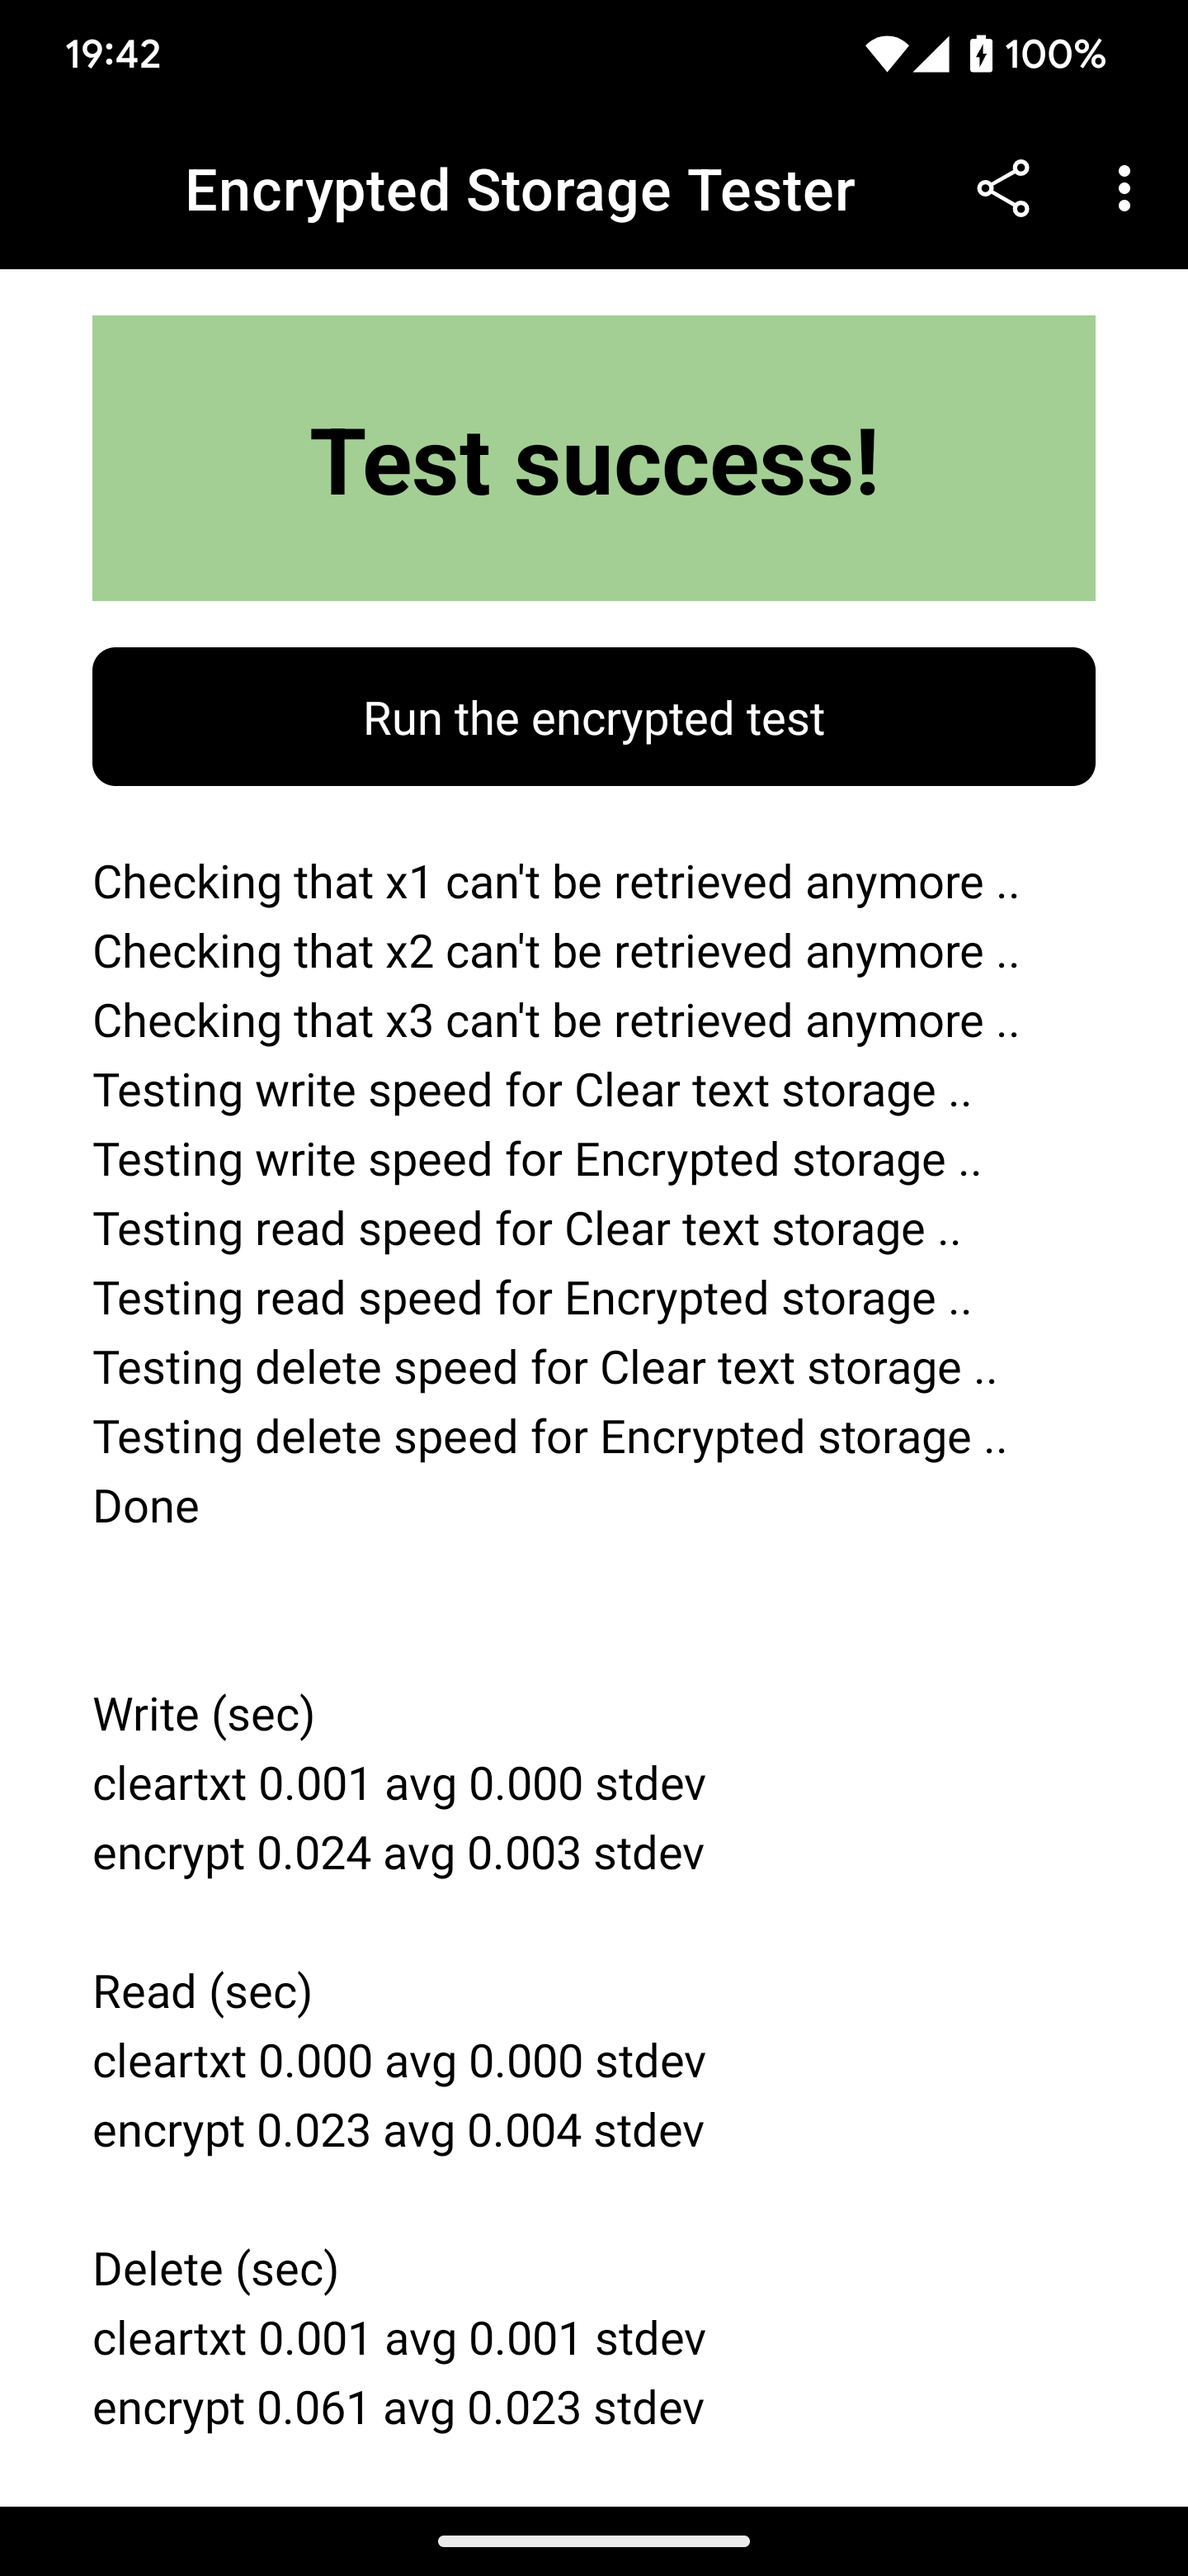
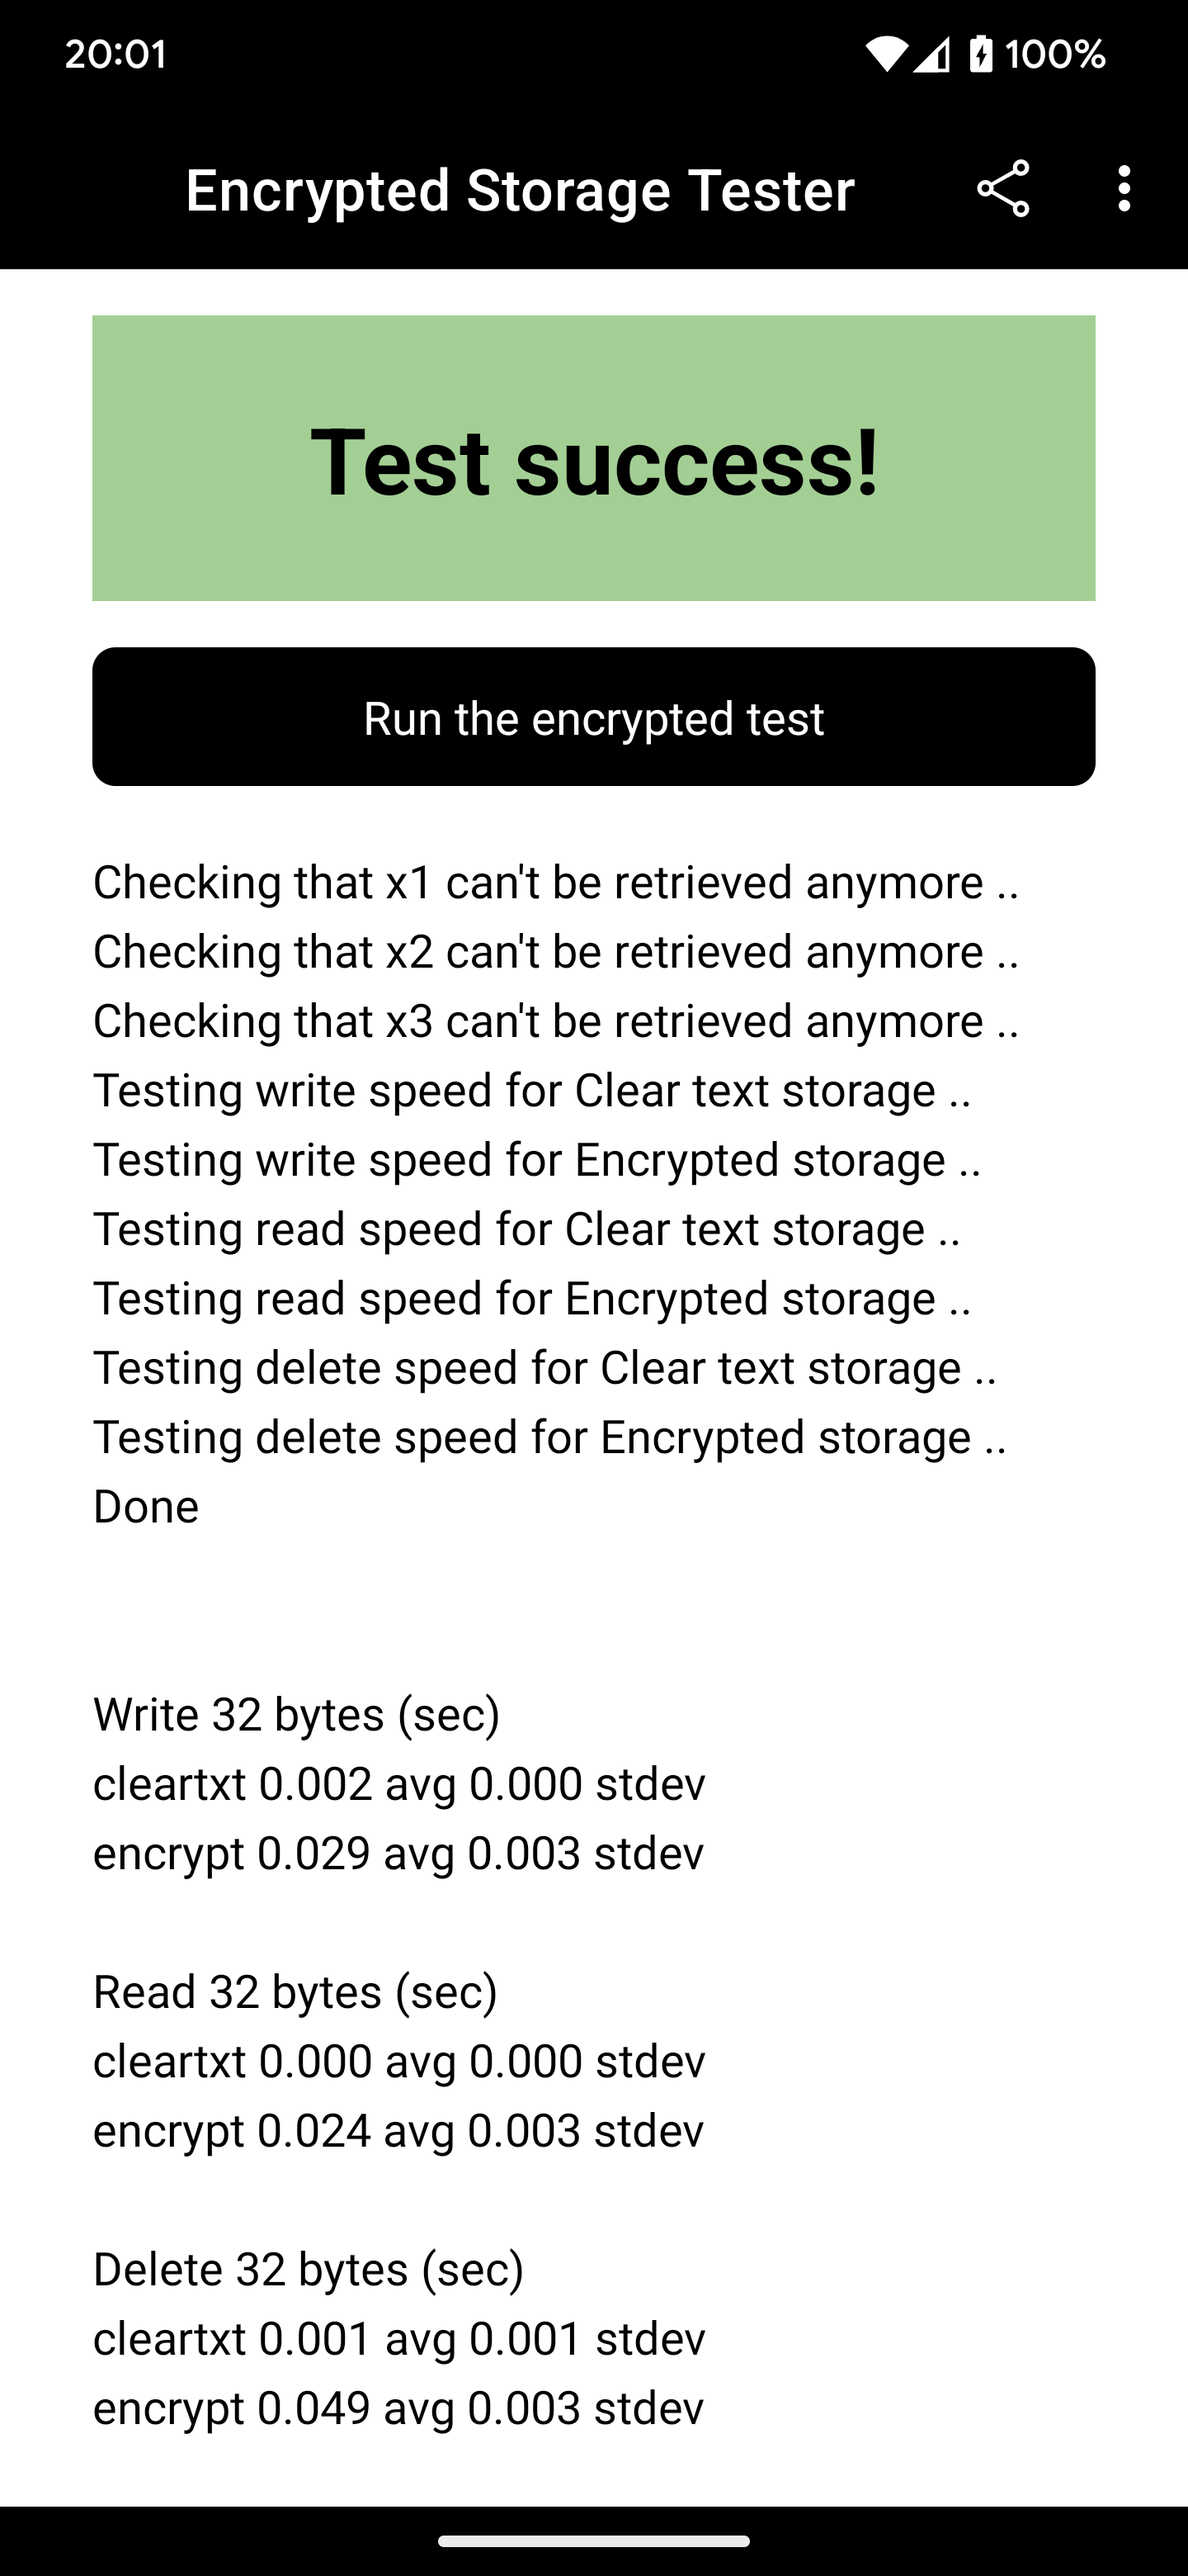
Log out the data size

diff --git a/app-domain/src/main/java/mobi/lab/hardwarekeybasedencryptedstoragetester/domain/usecases/storage/StorageTestUseCase.kt b/app-domain/src/main/java/mobi/lab/hardwarekeybasedencryptedstoragetester/domain/usecases/storage/StorageTestUseCase.kt
@@ -39,24 +39,24 @@ class StorageTestUseCase @Inject constructor(
     private fun measureUsageSpeed(): StorageSpeedMeasurementResults {
         val data = createRandomBytes(MEASUREMENT_BYTE_SIZE)
 
-        val writeClearText = measureStorageOp("write", clearTextStorageGateway.getTypeName(), MEASUREMENT_LOOP_COUNT, data.size) {
+        val writeClearText = measureStorageOp("write", clearTextStorageGateway.getTypeName(), MEASUREMENT_LOOP_COUNT) {
             clearTextStorageGateway.storeData(it, data)
         }
-        val writeEncrypted = measureStorageOp("write", encryptedStorageGateway.getTypeName(), MEASUREMENT_LOOP_COUNT, data.size) {
+        val writeEncrypted = measureStorageOp("write", encryptedStorageGateway.getTypeName(), MEASUREMENT_LOOP_COUNT) {
             encryptedStorageGateway.storeData(it, data)
         }
 
-        val readClearText = measureStorageOp("read", clearTextStorageGateway.getTypeName(), MEASUREMENT_LOOP_COUNT, data.size) {
+        val readClearText = measureStorageOp("read", clearTextStorageGateway.getTypeName(), MEASUREMENT_LOOP_COUNT) {
             clearTextStorageGateway.retrieveData<ByteArray>(it, object : TypeToken<ByteArray>() {}.type)
         }
-        val readEncrypted = measureStorageOp("read", encryptedStorageGateway.getTypeName(), MEASUREMENT_LOOP_COUNT, data.size) {
+        val readEncrypted = measureStorageOp("read", encryptedStorageGateway.getTypeName(), MEASUREMENT_LOOP_COUNT) {
             encryptedStorageGateway.retrieveData<ByteArray>(it, object : TypeToken<ByteArray>() {}.type)
         }
 
-        val deleteClearText = measureStorageOp("delete", clearTextStorageGateway.getTypeName(), MEASUREMENT_LOOP_COUNT, data.size) {
+        val deleteClearText = measureStorageOp("delete", clearTextStorageGateway.getTypeName(), MEASUREMENT_LOOP_COUNT) {
             clearTextStorageGateway.removeData(it)
         }
-        val deleteEncrypted = measureStorageOp("delete", encryptedStorageGateway.getTypeName(), MEASUREMENT_LOOP_COUNT, data.size) {
+        val deleteEncrypted = measureStorageOp("delete", encryptedStorageGateway.getTypeName(), MEASUREMENT_LOOP_COUNT) {
             encryptedStorageGateway.removeData(it)
         }
 
@@ -66,7 +66,8 @@ class StorageTestUseCase @Inject constructor(
             readClearText = readClearText,
             readEncrypted = readEncrypted,
             deleteClearText = deleteClearText,
-            deleteEncrypted = deleteEncrypted
+            deleteEncrypted = deleteEncrypted,
+            dataSizeBytes = data.size
         )
     }
 
@@ -75,7 +76,6 @@ class StorageTestUseCase @Inject constructor(
         operationName: String,
         storageTypeName: String,
         @Suppress("SameParameterValue") loops: Int,
-        dataSize: Int,
         operation: (tag: String) -> Unit
     ): StorageSpeedMeasurement {
         var totalDuration = 0.0
@@ -90,7 +90,6 @@ class StorageTestUseCase @Inject constructor(
         val averageMillis = totalDuration / loops.toDouble()
         val standardDeviationMillis = calculateStandardDeviation(loops.toDouble(), durations, averageMillis)
         return StorageSpeedMeasurement(
-            dataSizeBytes = dataSize,
             averageSec = averageMillis / 1000,
             standardDeviationSec = standardDeviationMillis / 1000
         )

diff --git a/app-domain/src/main/java/mobi/lab/hardwarekeybasedencryptedstoragetester/domain/entities/StorageSpeedMeasurementResults.kt b/app-domain/src/main/java/mobi/lab/hardwarekeybasedencryptedstoragetester/domain/entities/StorageSpeedMeasurementResults.kt
@@ -4,7 +4,9 @@ import android.content.Context
 import mobi.lab.hardwarekeybasedencryptedstoragetester.domain.R
 import java.math.RoundingMode
 
+@Suppress("LongParameterList")
 class StorageSpeedMeasurementResults(
+    val dataSizeBytes: Int,
     val writeClearText: StorageSpeedMeasurement,
     val writeEncrypted: StorageSpeedMeasurement,
     val readClearText: StorageSpeedMeasurement,
@@ -28,6 +30,7 @@ class StorageSpeedMeasurementResults(
             roundAndFormatToSec(deleteClearText.standardDeviationSec),
             roundAndFormatToSec(deleteEncrypted.averageSec),
             roundAndFormatToSec(deleteEncrypted.standardDeviationSec),
+            dataSizeBytes.toShort()
         )
     }
 

diff --git a/app-domain/src/main/java/mobi/lab/hardwarekeybasedencryptedstoragetester/domain/entities/StorageSpeedMeasurement.kt b/app-domain/src/main/java/mobi/lab/hardwarekeybasedencryptedstoragetester/domain/entities/StorageSpeedMeasurement.kt
@@ -1,3 +1,3 @@
 package mobi.lab.hardwarekeybasedencryptedstoragetester.domain.entities
 
-data class StorageSpeedMeasurement(val dataSizeBytes: Int, val averageSec: Double, val standardDeviationSec: Double)
+data class StorageSpeedMeasurement(val averageSec: Double, val standardDeviationSec: Double)
